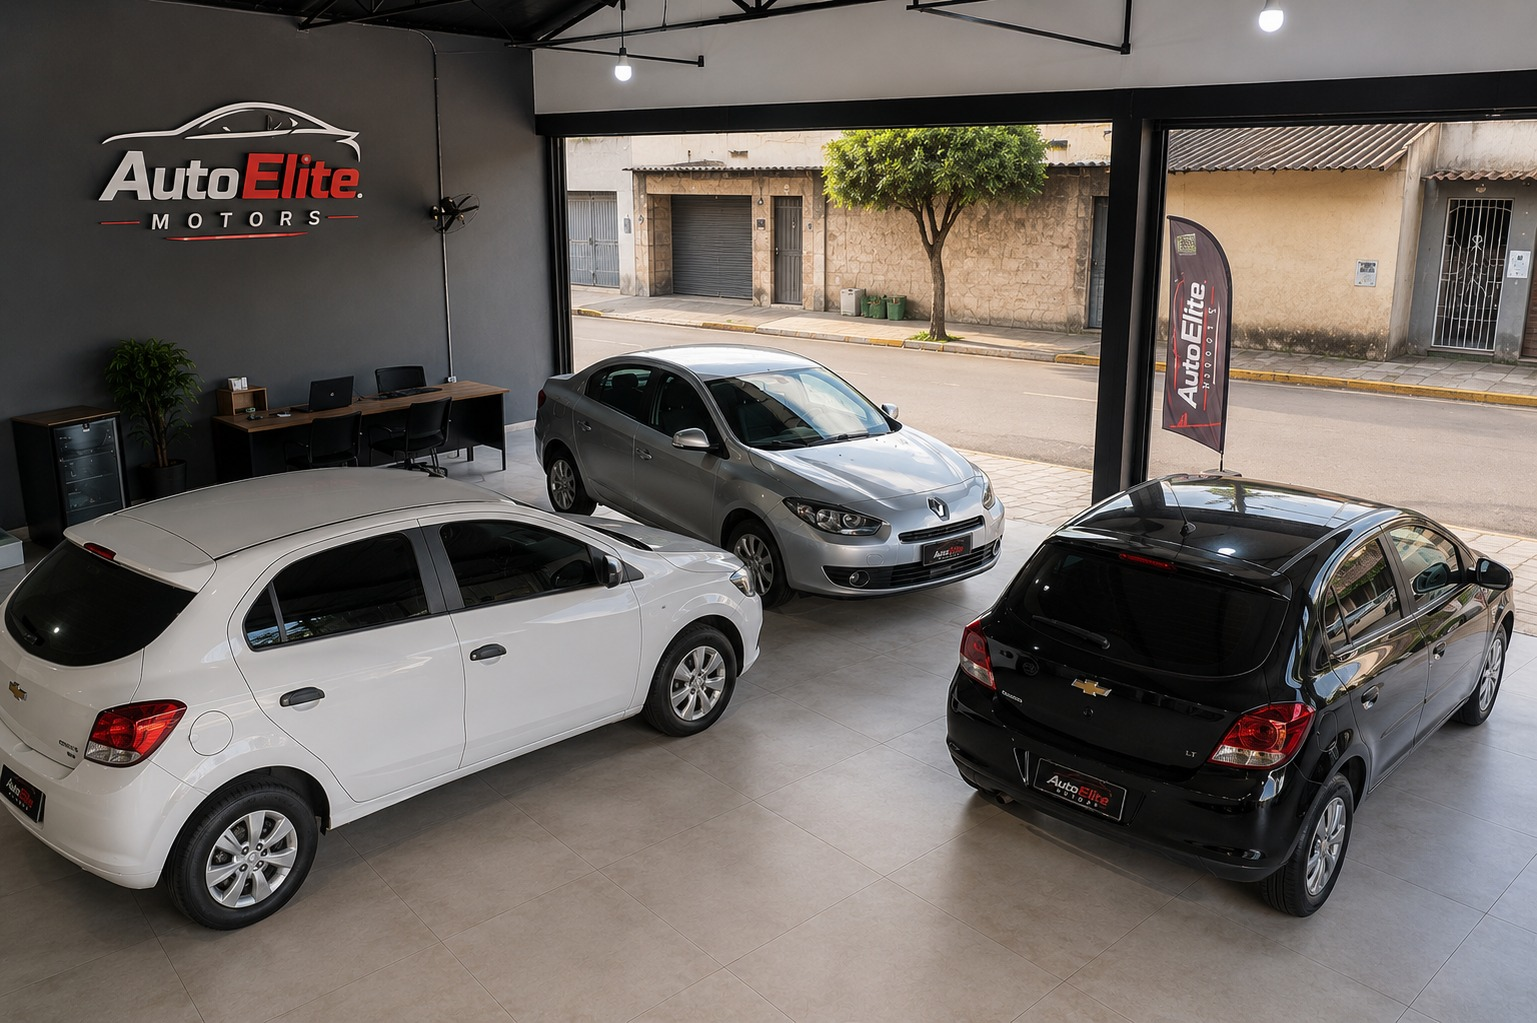
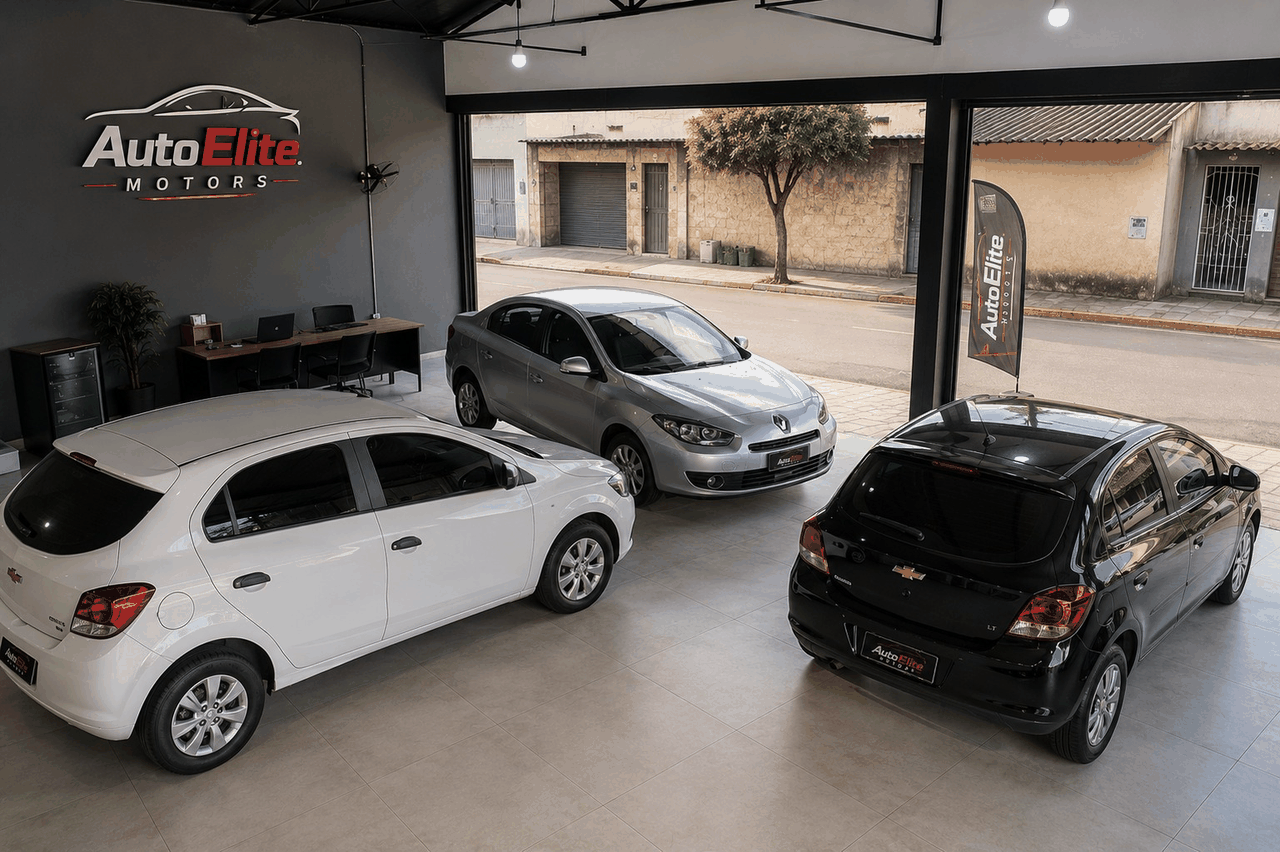
Reduz o tamanho das imagens (RNF01) e ajusta RF02 e US02

diff --git a/Requisitos de Usuário/RF.md b/Requisitos de Usuário/RF.md
@@ -3,7 +3,7 @@
 | ID | Descrição | Prioridade | Requisitos relacionados |
 |---|---|---|---|
 | RF01 | O sistema deve permitir que o visitante visualize a lista de veículos disponíveis no estoque, exibindo foto principal, nome/modelo e preço de cada um. | Alta | - |
-| RF02 | O sistema deve permitir que o visitante selecione um veículo da lista para consultar seus detalhes, incluindo fotos, nome/modelo, ano, preço e descrição. | Alta | RF01 |
+| RF02 | O sistema deve permitir que o visitante selecione um veículo da lista para consultar seus detalhes, incluindo foto, nome/modelo, ano, preço e descrição. | Alta | RF01 |
 | RF03 | O sistema deve permitir que o visitante pesquise veículos por nome ou modelo. | Alta | RF01 |
 | RF04 | O sistema deve exibir uma mensagem ao visitante quando a pesquisa não encontrar nenhum veículo. | Média | RF03 |
 | RF05 | O sistema deve permitir que o visitante consulte as informações de contato da loja: endereço, e-mail e horário de atendimento. | Alta | - |

diff --git a/Requisitos de Usuário/HistoriasUsuario.md b/Requisitos de Usuário/HistoriasUsuario.md
@@ -31,7 +31,7 @@
 **História:** Como visitante, eu quero ver os detalhes de um veículo, para decidir se ele atende ao que procuro.
 
 **Critérios de aceitação:**
-- Dado que o visitante está na lista, quando selecionar um veículo, então o sistema deve exibir fotos, nome/modelo, ano, preço e descrição.
+- Dado que o visitante está na lista, quando selecionar um veículo, então o sistema deve exibir foto, nome/modelo, ano, preço e descrição.
 - Dado que o visitante está nos detalhes, quando quiser voltar, então deve haver uma forma de retornar à lista.
 - Dado que o visitante usa celular ou computador, quando abrir os detalhes, então não deve haver rolagem horizontal.
 
